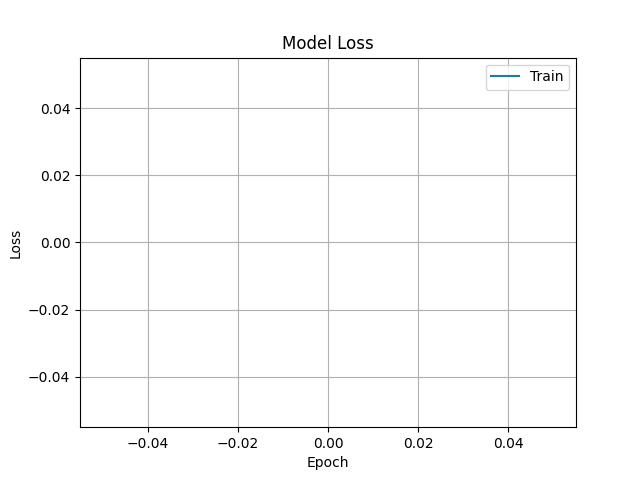
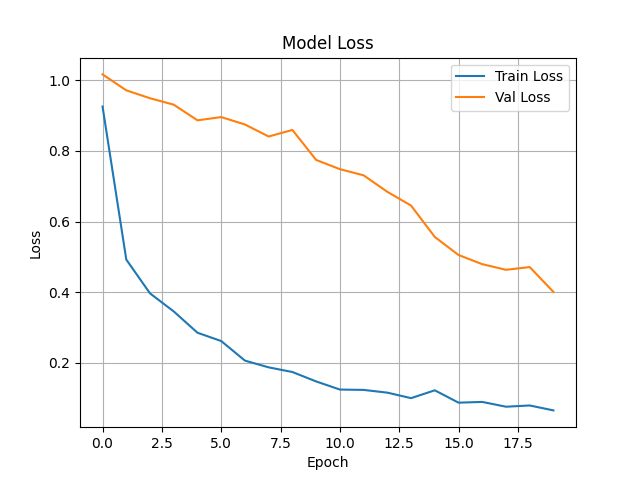
Create graphs for cnn

diff --git a/traincnn.py b/traincnn.py
@@ -1,4 +1,3 @@
-
 from matplotlib import pyplot as plt
 from cnn import StartupCNN
 from sklearn.preprocessing import StandardScaler
@@ -18,117 +17,89 @@ from data_utils import (
 CSV_PATH = "data/cleaned/combined_startups_30cols.csv"
 
 
-def visualize_loss(history: list[float]) -> None:
-  plt.plot(history.history['loss'], label='Train')
-  plt.title('Model Loss')
-  plt.xlabel('Epoch')
-  plt.ylabel('Loss')
-  plt.legend()
-  plt.grid(True)
-  plt.savefig('loss.png')
-  plt.show()
+# -------------------------------
+# PLOTTING FUNCTIONS
+# -------------------------------
+def visualize_loss(history):
+    plt.plot(history.history['loss'], label='Train Loss')
+    plt.plot(history.history['val_loss'], label='Val Loss')
+    plt.title('Model Loss')
+    plt.xlabel('Epoch')
+    plt.ylabel('Loss')
+    plt.legend()
+    plt.grid(True)
+    plt.savefig('loss.png')
+    plt.show()
 
 
+def visualize_accuracy(history):
+    plt.plot(history.history['accuracy'], label='Train Accuracy')
+    plt.plot(history.history['val_accuracy'], label='Val Accuracy')
+    plt.title('Model Accuracy')
+    plt.xlabel('Epoch')
+    plt.ylabel('Accuracy')
+    plt.legend()
+    plt.grid(True)
+    plt.savefig('accuracy.png')
+    plt.show()
+
+
+# -------------------------------
+# MAIN PIPELINE
+# -------------------------------
 def main() -> None:
-  print("Preprocessing data:")
-  df, status_to_id = load_and_clean_csv(CSV_PATH)
+    print("Preprocessing data:")
+    df, status_to_id = load_and_clean_csv(CSV_PATH)
 
+    print("Formatting data:")
+    categorical_array, vocab_sizes, lookups = encode_categorical(df)
+    num_array = extract_numeric(df)
+    labels = df['label_id'].values
 
-  print("Formatting data:")
-  categorical_array, vocab_sizes, lookups = encode_categorical(df)
-  num_array = extract_numeric(df)
-  labels = df['label_id'].values
+    (train_cat, train_num, y_train), (val_cat, val_num, y_val), (test_cat, test_num, y_test) = make_splits(
+         categorical_array, num_array, labels
+    )
 
+    # --- Dataset size printouts ---
+    print("Train rows:", len(train_cat))
+    print("Val rows:", len(val_cat))
+    print("Test rows:", len(test_cat))
+    print("Total rows after split:", len(train_cat) + len(val_cat) + len(test_cat))
+    print("Original rows:", len(df))
 
-  (train_cat, train_num, y_train), (val_cat, val_num, y_val), (test_cat, test_num, y_test) = make_splits(
-       categorical_array, num_array, labels
-  )
+    train_ds = make_dataset(train_cat, train_num, y_train, batch_size=64, shuffle=True)
+    val_ds = make_dataset(val_cat, val_num, y_val, batch_size=64, shuffle=False)
+    test_ds = make_dataset(test_cat, test_num, y_test, batch_size=64, shuffle=False)
 
+    cnn = StartupCNN(
+        vocab_sizes=vocab_sizes,
+        num_numeric_features=num_array.shape[1],
+        embedding_dim=8,
+        num_classes=len(status_to_id),
+    )
 
-  train_ds = make_dataset(train_cat, train_num, y_train, batch_size=64, shuffle=True)
-  val_ds = make_dataset(val_cat, val_num, y_val, batch_size=64, shuffle=False)
-  test_ds = make_dataset(test_cat, test_num, y_test, batch_size=64, shuffle=False)
+    cnn.compile(
+        optimizer=tf.keras.optimizers.Adam(learning_rate=1e-3),
+        loss=tf.keras.losses.SparseCategoricalCrossentropy(from_logits=False),
+        metrics=['accuracy'],
+    )
 
+    history = cnn.fit(
+        train_ds,
+        validation_data=val_ds,
+        epochs=20,
+    )
 
-  cnn = StartupCNN(
-     vocab_sizes=vocab_sizes,
-     num_numeric_features=num_array.shape[1],
-     embedding_dim=8,
-     num_classes=len(status_to_id),   # ---- CHANGED ----
-  )
+    # ---- NEW: Plot results ----
+    visualize_loss(history)
+    visualize_accuracy(history)
 
+    test_loss, test_acc = cnn.evaluate(test_ds)
+    predictions = cnn.predict(test_ds)
 
-  cnn.compile(
-     optimizer=tf.keras.optimizers.Adam(learning_rate=1e-3),
-
-
-     # ---- CHANGED ----
-     loss=tf.keras.losses.SparseCategoricalCrossentropy(from_logits=False),
-
-
-     metrics=['accuracy'],
-  )
-
-
-  history = cnn.fit(
-     train_ds,
-     validation_data=val_ds,
-     epochs=20,
-  )
- 
-  test_loss, test_acc = cnn.evaluate(test_ds)
-  predictions = cnn.predict(test_ds)
-
-
-  print(predictions)
-  print(f"Test loss: {test_loss}, Test accuracy: {test_acc}")
+    print(predictions)
+    print(f"Test loss: {test_loss}, Test accuracy: {test_acc}")
 
 
 if __name__ == '__main__':
-  main()
-
-
-
-
-
-
-
-
-
-
-
-
-
-
-
-
-
-
-
-
-
-
-
-
-
-
-
-
-
-
-
-
-
-
-
-
-
-
-
-
-
-
-
-
-
-
+    main()
